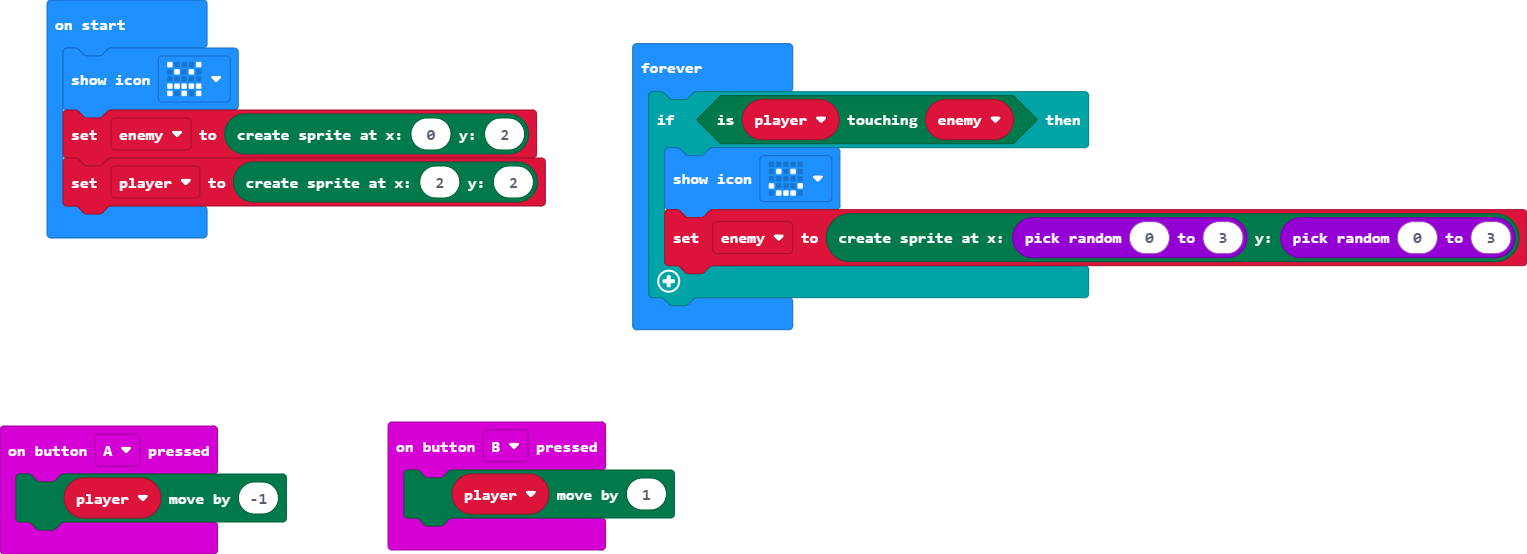
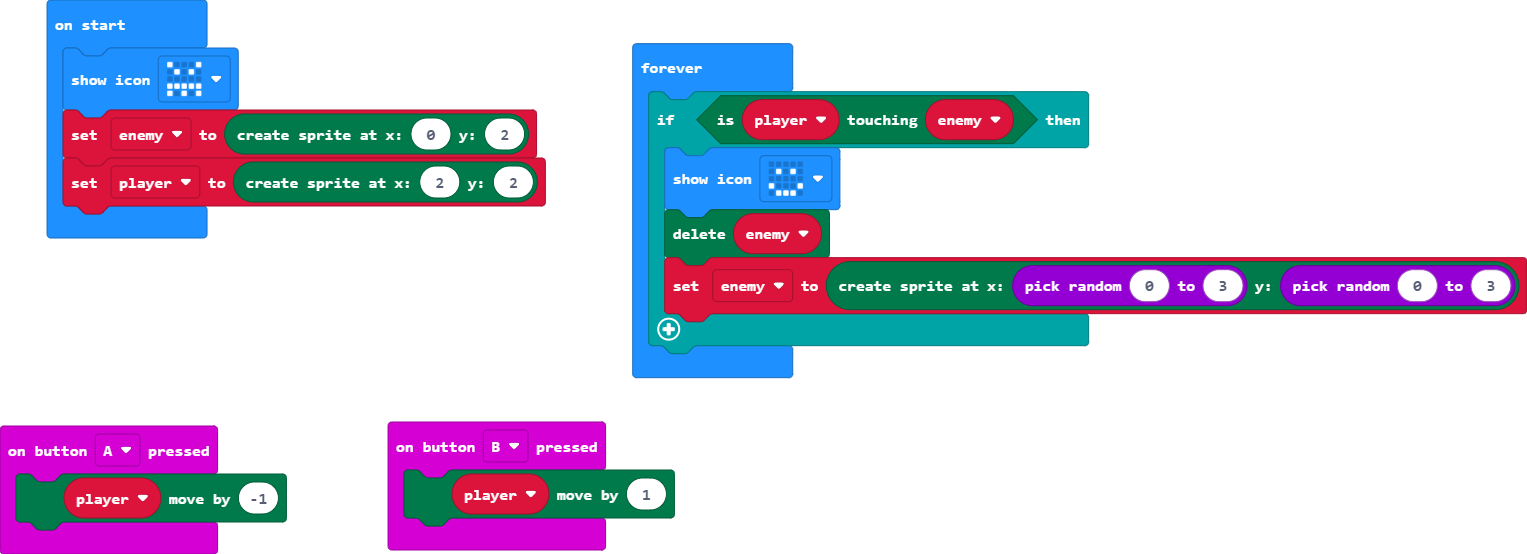
Update main.blocks, main.ts

Changed region(s): [[0.4001, 0.3682, 1.0, 0.7058]]

diff --git a/main.ts b/main.ts
@@ -11,6 +11,7 @@ player = game.createSprite(2, 2)
 basic.forever(function () {
     if (player.isTouching(enemy)) {
         basic.showIcon(IconNames.Happy)
+        enemy.delete()
         enemy = game.createSprite(randint(0, 3), randint(0, 3))
     }
 })
